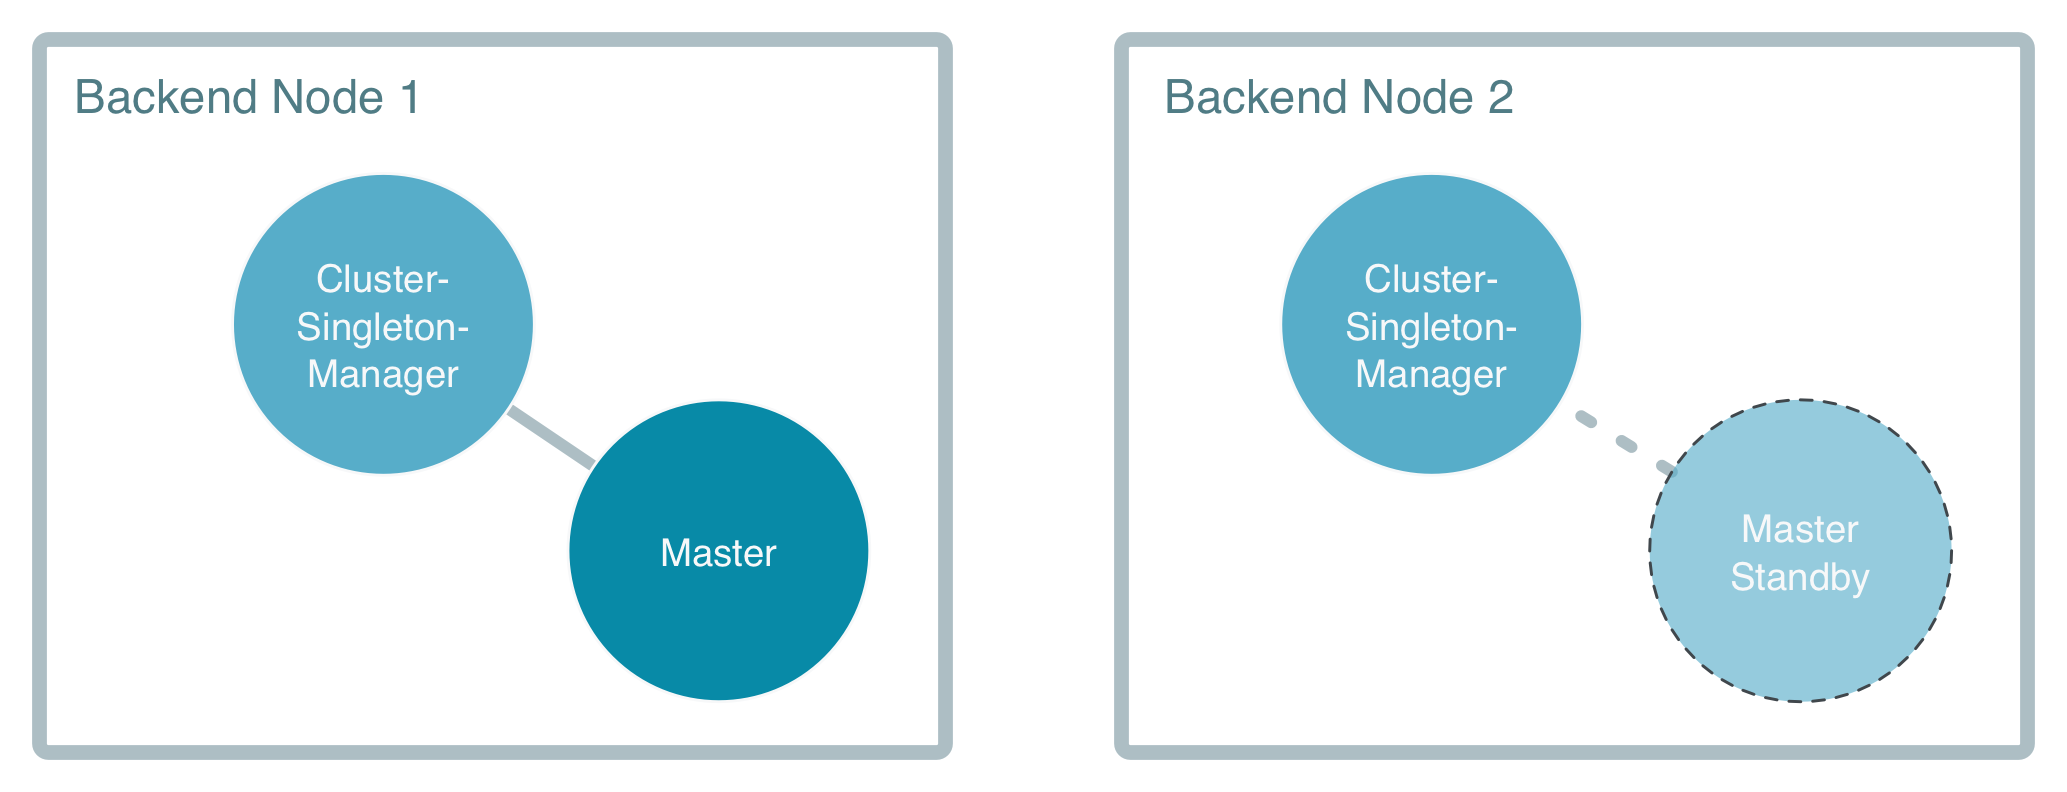
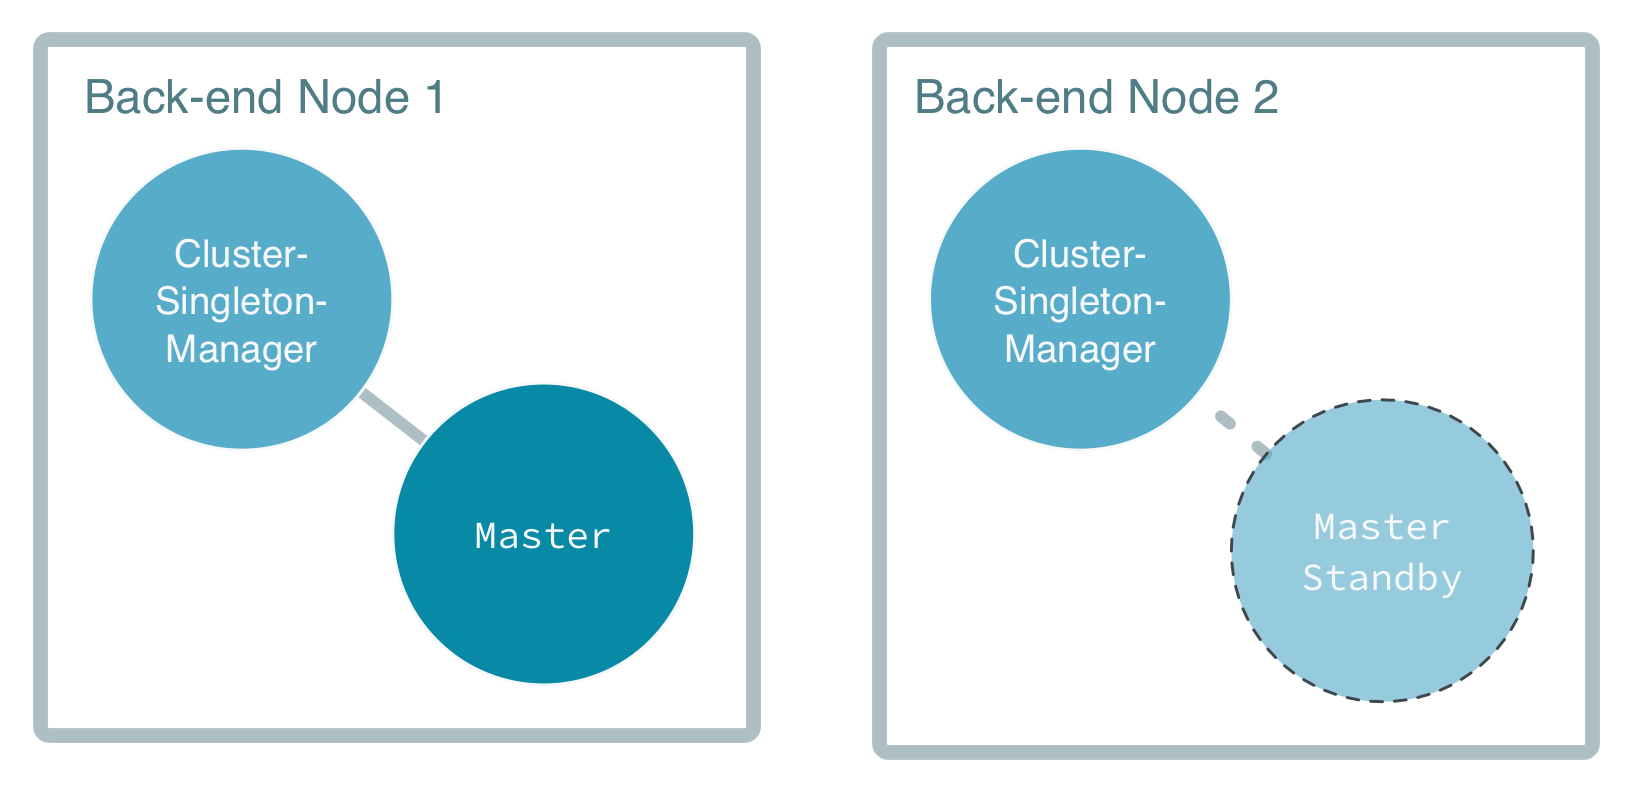
First round of review feedback from Ruth applied

diff --git a/docs/src/main/paradox/index.md b/docs/src/main/paradox/index.md
@@ -1,11 +1,22 @@
 # Akka Distributed Workers with Scala Guide
  
 Akka is a toolkit and runtime for building highly concurrent, distributed, and fault-tolerant event-driven applications on the JVM. Akka can be used with both Java and Scala.
-This guide introduces Akka by describing the Scala version of the Hello World example. If you prefer to use Akka with Java, switch to the [Akka Distributed Workers with Java guide](http://developer.lightbend.com/guides/akka-quickstart-java/).
 
-This guide demonstrates more advanced usage of Akka and requires familiarity with Actors. If you have no previous experience with Actors you should start with [Akka Quickstart with Scala](http://developer.lightbend.com/guides/akka-quickstart-scala/) which goes through the basics.
+This guide introduces Akka clusters by describing the Scala version of a distributed workers example. If you prefer to use Akka with Java, switch to the [Akka Distributed Workers with Java guide](http://developer.lightbend.com/guides/akka-quickstart-java/).
 
-Within 30 minutes, you should be able to download and run the example and use this guide to understand how the example is constructed. This will get you started building distributed systems with Akka.
+The guide contains advanced usage of Akka and requires familiarity with Akka and Actors. If you have no previous experience with Actors you should start with [Akka Quickstart with Scala](http://developer.lightbend.com/guides/akka-quickstart-scala/) which goes through the basics.
+
+## Example overview
+
+To be reactive, distributed applications must deal gracefully with temporary and prolonged outages as well as have the ability to scale up and down to make the best use of resources. Akka clustering provides these capabilities so that you don't have to implement them yourself. The distributed workers example demonstrates the following Akka clustering capabilities (this is just a slightly reworded version of the more technical bulleted list below that explains the app requirements):
+
+ * elastic addition and removal of the front-end actors that accept client requests
+ * elastic addition and removal of the back-end actors that perform the work distribution of actors across different nodes
+ * how jobs are re-tried in the face of failures
+
+But before we dive into how the example accomplishes these goals, download the example and try it out!
+
+The design is based on Derek Wyatt's blog post [Balancing Workload Across Nodes with Akka 2](http://letitcrash.com/post/29044669086/balancing-workload-across-nodes-with-akka-2) from 2009, which is a bit old, but still a good description of the advantages of letting the workers pull work from the master instead of pushing work to the workers.
 
 ## Downloading the example 
 
@@ -15,7 +26,7 @@ Download and unzip the example:
 
 1. Download the zip file from [Lightbend Tech Hub](http://dev.lightbend.com/start/?group=akka&project=akka-distributed-workers-scala) by clicking `CREATE A PROJECT FOR ME`. 
 1. Extract the zip file to a convenient location: 
-  - On Linux and OSX systems, open a terminal and use the command `unzip akka-distributed-workers-scala.zip`. Note: On OSX, if you unzip using Archiver, you also have to make the sbt files executable:
+  - On Linux and MacOS systems, open a terminal and use the command `unzip akka-distributed-workers-scala.zip`. Note: On MacOS, if you unzip using Archiver, you also have to make the sbt files executable:
 ```
  $ chmod u+x ./sbt
  $ chmod u+x ./sbt-dist/bin/sbt
@@ -31,7 +42,7 @@ To run the sample application, which starts a small cluster inside of the same J
     For example, if you used the default project name, akka-distributed-workers-scala, and extracted the project to your root directory,
     from the root directory, enter: `cd akka-distributed-workers-scala`
 
-1. Enter `./sbt` on OSX/Linux or `sbt.bat` on Windows to start sbt.
+1. Enter `./sbt` on MacOS/Linux or `sbt.bat` on Windows to start sbt.
  
     sbt downloads project dependencies. The `>` prompt indicates sbt has started in interactive mode.
 
@@ -54,40 +65,34 @@ Congratulations, you just ran your first Akka Cluster app. Now take a look at wh
 
 ## What happens when you run it
 
+When `Main` is run without any parameters, it starts six `ActorSystem`s in the same JVM. These six `ActorSystem`s form a single cluster. The six nodes include two each that perform front-end, back-end, and worker tasks:
+
+ * The front-end nodes simulate an external interface, such as a REST API, that accepts workloads from clients.
+ * The worker nodes have worker actors that accept and process workloads.
+ * The back-end nodes contain a Master actor that coordinates workloads, keeps track of the workers, and delegates work to available workers. One of the nodes is active and one is on standby. If the active Master goes down, the standby takes over.
+
+
 When `Main` is run without any parameters, it starts 6 `ActorSystem`s in the same JVM which then form a single cluster. 
 
-Two of the nodes have the role `frontend` and simulate having an external interface, such as a REST API, where workloads can be posted. 
+Two of the nodes have the role `front-end` and simulate having an external interface, such as a REST API, where workloads can be posted. 
 
 Two of the nodes has the role `worker` and starts two worker actors each that accept and process workloads.
 
-Two nodes have the role `backend` and contain an actor called `Master` which coordinates workloads from the frontend nodes, keep track of the workers, and delegate work to available workers. If one of these nodes goes down, the other one takes over its responsibilities.
+Two nodes have the role `back-end` and contain an actor called `Master` which coordinates workloads from the front-end nodes, keep track of the workers, and delegate work to available workers. If one of these nodes goes down, the other one takes over its responsibilities.
 
-A bird's eye perspective of the architecture would look like this:
+A bird's eye perspective of the architecture looks like this:
 
 ![Overview](images/cluster-nodes.png)
 
-The application was designed like this to support the following requirements:
-
- * elastic addition/removal of frontend nodes that receives work from clients
- * elastic addition/removal of worker actors and worker nodes
- * each worker hosting one or more workers
- * the number of workers on each worker should not have to be the same across all workers 
- * jobs should not be lost, and if a worker fails, the job should be retried
-  
-The design is based on Derek Wyatt's blog post 
-[Balancing Workload Across Nodes with Akka 2](http://letitcrash.com/post/29044669086/balancing-workload-across-nodes-with-akka-2) 
-from 2009, which is a bit old, but still a good description of the advantages of letting the workers pull work from the master 
-instead of pushing work to the workers.
- 
-Let's look at the details of each part of the application:
+Let's look at the details of each part of the application, starting with the front-end.
 
 @@@index
 
-* [The Backend Nodes](backend.md)
-* [The Frontend Nodes](frontend.md)
-* [The Worker Nodes](worker.md)
+* [The Front-end Nodes](front-end.md)
+* [The Back-end Nodes](back-end.md)
 * [The Master Actor in Detail](master-in-detail.md)
-* [Running the Application](running.md)
+* [The Worker Nodes](worker.md)
+* [Experimenting with the example](experimenting.md)
 * [Next Steps](next-steps.md)
 
 @@@

diff --git a/docs/src/main/paradox/master-in-detail.md b/docs/src/main/paradox/master-in-detail.md
@@ -14,15 +14,15 @@ This allows us to capture and store each such event that happens, we can later r
 
 Inside of the actor this means that any time the `WorkState` is modified, we must first `persist` the event, and not until we know that was successful we can apply the event to the state. If it would be the other way around we could apply a change, have the write fail, and be in a state a replaying node could not reach.
 
-Let's look at how a command to process a work item from the frontend comes in:
+Let's look at how a command to process a work item from the front-end comes in:
 
 @@snip [Master.scala]($g8src$/scala/worker/Master.scala) { #persisting }
 
-The first thing you might notice is the comment saying `idempotent`, this means that the same work message may arrive multiple times, but regardless how many times it comes in, it should only be executed once. This is needed since the `Frontend` actor re-sends work in case of the `Work` or `Ack` messages getting lost (Akka does not provide any guarantee of delivery, [see details in the docs](http://doc.akka.io/docs/akka/current/scala/general/message-delivery-reliability.html#discussion-why-no-guaranteed-delivery-)).
+The first thing you might notice is the comment saying `idempotent`, this means that the same work message may arrive multiple times, but regardless how many times it comes in, it should only be executed once. This is needed since the `FrontEnd` actor re-sends work in case of the `Work` or `Ack` messages getting lost (Akka does not provide any guarantee of delivery, [see details in the docs](http://doc.akka.io/docs/akka/current/scala/general/message-delivery-reliability.html#discussion-why-no-guaranteed-delivery-)).
 
 To make the logic idempotent we simple check if the work id is already known, and if it is we simply `Ack` it without further logic.
 
-If the work is previously unknown, we start by transforming it into a `WorkAccepted` event, which we persist, and only in the `handler`-function passed to `persist` do we actually update the `workState`, send an `Ack` back to the `Frontend` and trigger a search for available workers.
+If the work is previously unknown, we start by transforming it into a `WorkAccepted` event, which we persist, and only in the `handler`-function passed to `persist` do we actually update the `workState`, send an `Ack` back to the `FrontEnd` and trigger a search for available workers.
 
 
 ## Akka Persistence differences from regular Actors
@@ -39,7 +39,7 @@ For the set of worker, saving them to a persistent store would be less valuable,
 
 Instead we have chosen a different strategy for the workers:  
 
-From the moment a `Worker` is created until it stops it will periodically register to the master using the `RegisterWorker` message, this means we do not have to persist the list of workers, if a `backend` node fails and the master is started on a new node, the workers will simply start sending their periodic registrations to the new node.
+From the moment a `Worker` is created until it stops it will periodically register to the master using the `RegisterWorker` message, this means we do not have to persist the list of workers, if a `back-end` node fails and the master is started on a new node, the workers will simply start sending their periodic registrations to the new node.
 
 It also means that if a worker goes away, it will stop periodically pinging the master and we can detect that it is no longer available. We also remove workers that hasn't come back with a work result before the `work-timeout`.
 

diff --git a/docs/src/main/paradox/front-end.md b/docs/src/main/paradox/front-end.md
@@ -1,36 +1,36 @@
-# Frontend Nodes
+# Front-end Nodes
 
-A typical frontend provides a RESTful API that is used by the clients to submit (POST) jobs.
+A typical front-end provides a RESTful API that is used by the clients to submit (POST) jobs.
 When the service has accepted the job it returns `Created/201` response code to the client.
 If it can't accept the job it returns a failure response code and the client has to retry or
 discard the job.
 
 This could be implemented nicely with Akka HTTP but to keep the scope of this guide limited we 
-emulate the frontend with an ordinary actor, `Frontend`,  that in random intervals generates a 
+emulate the front-end with an ordinary actor, `FrontEnd`,  that in random intervals generates a 
 payload and sends to the `Master`.
 
-## The Frontend Actor
+## The Front-end Actor
 
-@@snip [Frontend.scala]($g8src$/scala/worker/Frontend.scala) { #frontend }
+@@snip [FrontEnd.scala]($g8src$/scala/worker/Frontend.scala) { #front-end }
 
-As you can see the `Frontend` actor sends the work to the active master via the
+As you can see the `FrontEnd` actor sends the work to the active master via the
 `ClusterSingletonProxy`. It doesn't care about the exact location of the
 master. Somewhere in the cluster there should be one master actor running.
 The message is sent with `ask/?` to be able to reply to the client (`WorkProducer`)
 when the job has been accepted or denied by the master.
 
-If the work is not accepted or there is no response the `Frontend` backs off a bit and then sends the work again.
+If the work is not accepted or there is no response the `FrontEnd` actor backs off a bit and then sends the work again.
 
-You can see how a Frontend actor is started in the method `Main.startFrontend`:
+You can see how a Frontend actor is started in the method `Main.startFrontEnd`:
 
-@@snip [Main.scala]($g8src$/scala/worker/Main.scala) { #frontend }
+@@snip [Main.scala]($g8src$/scala/worker/Main.scala) { #front-end }
 
 ## The Work Result Consumer Actor
 
 When a workload has been processed successfully this will be published to all interested cluster nodes through
 [Distributed Pub-Sub](http://doc.akka.io/docs/akka/current/scala/distributed-pub-sub.html#distributed-publish-subscribe-in-cluster)
 
-In addition to the `Frontend` actor the frontend nodes start an actor that subscribes to the completion events and 
+In addition to the `FrontEnd` actor the front-end nodes start an actor that subscribes to the completion events and 
 logs when a workload has completed:
 
 @@snip [Main.scala]($g8src$/scala/worker/WorkResultConsumer.scala) { #work-result-consumer }

diff --git a/docs/src/main/paradox/experimenting.md b/docs/src/main/paradox/experimenting.md
@@ -12,7 +12,7 @@ sbt "runMain worker.Main 2551"
 2551 corresponds to the port of the first seed-nodes element in the configuration. In the log
 output you see that the cluster node has been started and changed status to 'Up'.
 
-In the second terminal window, start the frontend node with the following command:
+In the second terminal window, start the front-end node with the following command:
 
 ```bash
 sbt "runMain worker.Main 3001"		
@@ -34,14 +34,14 @@ sbt "runMain worker.Main 5001 3"
 5001 means the node will be a worker node, and the second parameter `3` means that it will host three worker actors.
 
 Look at the log output in the different terminal
-windows. In the second window (frontend) you should see that the produced jobs are processed
+windows. In the second window (front-end) you should see that the produced jobs are processed
 and logged as `"Consumed result"`.
 
 Take a look at the logging that is done in `WorkProducer`, `Master` and `Worker`.
 Identify the corresponding log entries in the 3 terminal windows.
 
 Shutdown the worker node (third terminal window) with `ctrl-c`.
-Observe how the `"Consumed result"` logs in the frontend node (second terminal window)
+Observe how the `"Consumed result"` logs in the front-end node (second terminal window)
 stops. Start the worker node again.
 
 ```bash
@@ -50,13 +50,13 @@ sbt "runMain worker.Main 5001 3"
 
 You can also start more such worker nodes in new terminal windows.
 
-You can start more cluster backend nodes using port numbers between 2000-2999:
+You can start more cluster back-end nodes using port numbers between 2000-2999:
 
 ```bash
 sbt "runMain worker.Main 2552"
 ```
 
-You can start more cluster frontend nodes using port numbers between 3000-3999:
+You can start more cluster front-end nodes using port numbers between 3000-3999:
 
 ```bash
 sbt "runMain worker.Main 3002"		

diff --git a/docs/src/main/paradox/back-end.md b/docs/src/main/paradox/back-end.md
@@ -1,4 +1,4 @@
-# The Backend Nodes
+# The Back-end Nodes
 
 ## The Master singleton
 
@@ -8,7 +8,7 @@ and notifies registered workers when new work is available.
 ![Managed Singleton](images/singleton-manager.png)
 
 The [Cluster Singleton](http://doc.akka.io/docs/akka/current/scala/guide/modules.html#cluster-singleton) tool in 
-Akka makes sure it only runs on one node within the subset of nodes marked with the role `backend` at any 
+Akka makes sure it only runs on one node within the subset of nodes marked with the role `back-end` at any 
 given time. It will run on the oldest such node, if that node is removed from the cluster the singleton will be 
 started on the new oldest node. 
 
@@ -21,7 +21,7 @@ in `MasterSingleton`:
 @@snip [MasterSingleton.scala]($g8src$/scala/worker/MasterSingleton.scala) { #singleton }
 
 The singleton accepts the `Prop`s of the actual singleton actor, as well as configuration which allows us to decide
-that the singleton actors should only run on the nodes with the role `backend`.
+that the singleton actors should only run on the nodes with the role `back-end`.
 
 To interact with the singleton from any node in the cluster, without explicitly having to figure out where it is running,
 we use the `ClusterSingletonProxy`:
@@ -42,4 +42,4 @@ but that is more complicated and not as scalable. In the end of the tutorial we 
 can be supported with a small adjustment.
 
 Later we will explore the implementation of the `Master`
-actor in depth, but first we will take a look at the frontend and worker that interacts with the master.
+actor in depth, but first we will take a look at the front-end and worker that interacts with the master.

diff --git a/docs/src/main/paradox/next-steps.md b/docs/src/main/paradox/next-steps.md
@@ -22,11 +22,11 @@ A real system would use a distributed journal and snapshot store, for example [A
 
 ## A HTTP Based API
 
-The `Frontend` in this sample is a dummy that automatically generates work. A real application could for example use [Akka HTTP](http://doc.akka.io/docs/akka-http/current/scala/http/introduction.html) to provide a HTTP REST (or other) API for external clients.
+The `FrontEnd` in this sample is a dummy that automatically generates work. A real application could for example use [Akka HTTP](http://doc.akka.io/docs/akka-http/current/scala/http/introduction.html) to provide a HTTP REST (or other) API for external clients.
 
 ## Scaling better with many masters
 
-If the singleton master becomes a bottleneck we could start several master actors and shard the jobs among them. For each shard of master/standby nodes we would use a separate cluster role name, e.g. "backend-shard1", "backend-shard2". We would also need to ensure that the shard masters got unique `entityId`s.
+If the singleton master becomes a bottleneck we could start several master actors and shard the jobs among them. For each shard of master/standby nodes we would use a separate cluster role name, e.g. "back-end-shard1", "back-end-shard2". We would also need to ensure that the shard masters got unique `entityId`s.
 
 ## More tools for building distributed systems
 
